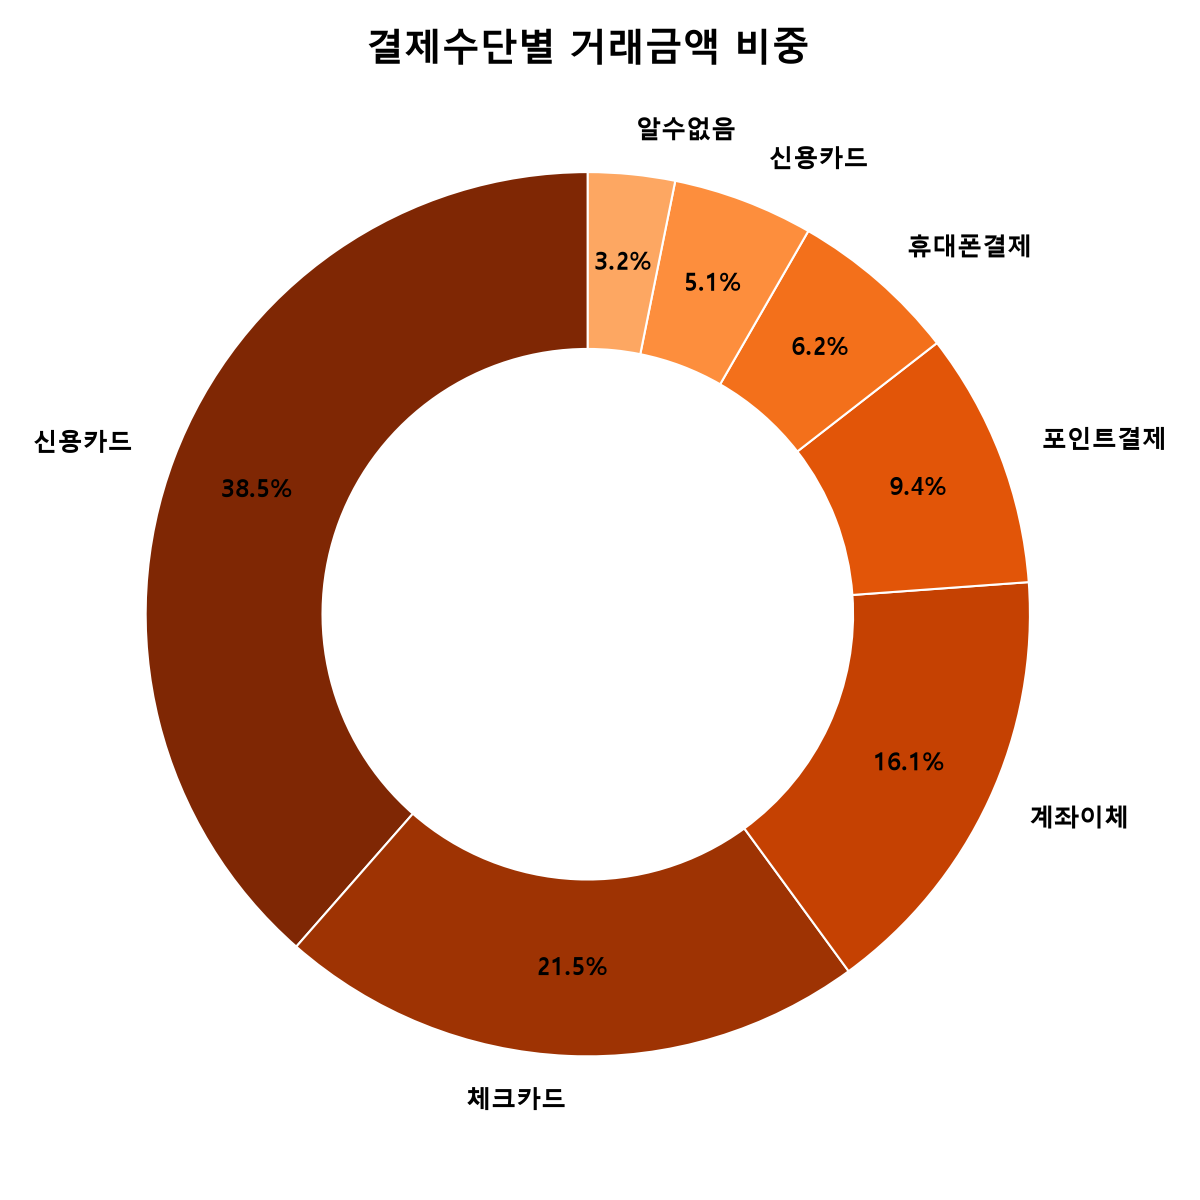
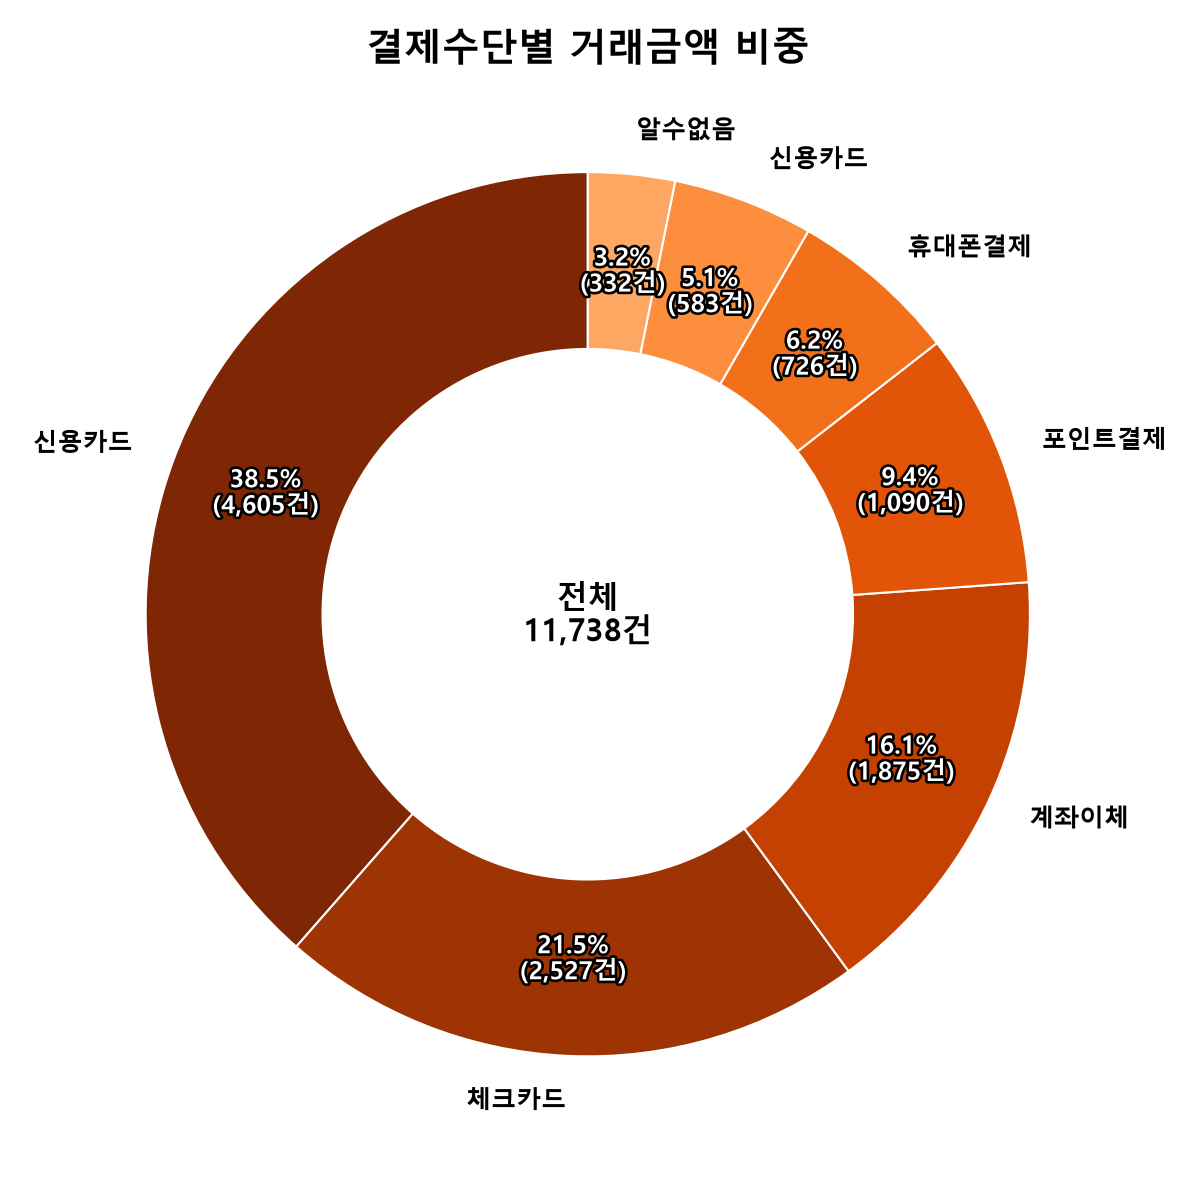
도넛 차트 비율 글씨를 흰색+테두리로 개선, 건수와 전체 결제 건수 표시 추가
Claude-Session: https://claude.ai/code/session_01LZdg1f9QtFQKoLo3eTQjnP

diff --git a/scripts/plot_월별_결제수단.py b/scripts/plot_월별_결제수단.py
@@ -4,6 +4,7 @@ os.chdir(os.path.dirname(os.path.abspath(__file__)) + "/..")
 import pandas as pd
 import matplotlib.pyplot as plt
 import matplotlib as mpl
+import matplotlib.patheffects as pe
 
 mpl.rcParams["font.family"] = "Malgun Gothic"
 mpl.rcParams["axes.unicode_minus"] = False
@@ -38,16 +39,35 @@ print("저장 완료: output/charts/월별_거래금액_추이.png")
 # ---------- 2) 결제수단별 거래금액 비중 - 도넛 차트 ----------
 pay = df.groupby("결제수단")["거래금액"].sum().sort_values(ascending=False)
 pct = pay / pay.sum() * 100
+# 비율(pay) 순서에 맞춰 건수도 같이 뽑음 - 조각 옆에 "39.2%\n(4,605건)"처럼 같이 보여주기 위함
+cnt = df["결제수단"].value_counts().reindex(pay.index)
+total_cnt = df["결제수단"].notna().sum()
 
 fig2, ax2 = plt.subplots(figsize=(8, 8))
 colors = plt.cm.Oranges_r([i / len(pay) * 0.7 for i in range(len(pay))])
 wedges, texts, autotexts = ax2.pie(
-    pay.values, labels=pay.index, autopct="%.1f%%", startangle=90,
-    pctdistance=0.8, colors=colors,
+    pay.values, labels=pay.index,
+    autopct=lambda p: f"{p:.1f}%",  # 아래에서 건수 줄을 직접 덧붙이므로 우선 비율만 넣음
+    startangle=90,
+    pctdistance=0.78, colors=colors,
     wedgeprops=dict(width=0.4, edgecolor="white"),
     textprops=dict(fontsize=12, fontweight="bold"),
 )
+
+# 비율 글씨는 밝은/어두운 조각 어디에 있든 잘 보이도록 흰색 + 검정 테두리(outline)로 그림
+for at, c in zip(autotexts, cnt.values):
+    at.set_color("white")
+    at.set_fontsize(12)
+    at.set_fontweight("bold")
+    at.set_text(f"{at.get_text()}\n({c:,}건)")
+    at.set_path_effects([pe.withStroke(linewidth=2.5, foreground="black")])
+
 ax2.set_title("결제수단별 거래금액 비중", fontsize=18, fontweight="bold")
+
+# 도넛 가운데 빈 공간에 전체 결제 건수를 적음 - 비중만 보여주고 전체 규모(모수)가 안 보이면 오해하기 쉬움
+ax2.text(0, 0, f"전체\n{total_cnt:,}건", ha="center", va="center",
+          fontsize=15, fontweight="bold")
+
 ax2.axis("equal")
 
 fig2.tight_layout()
